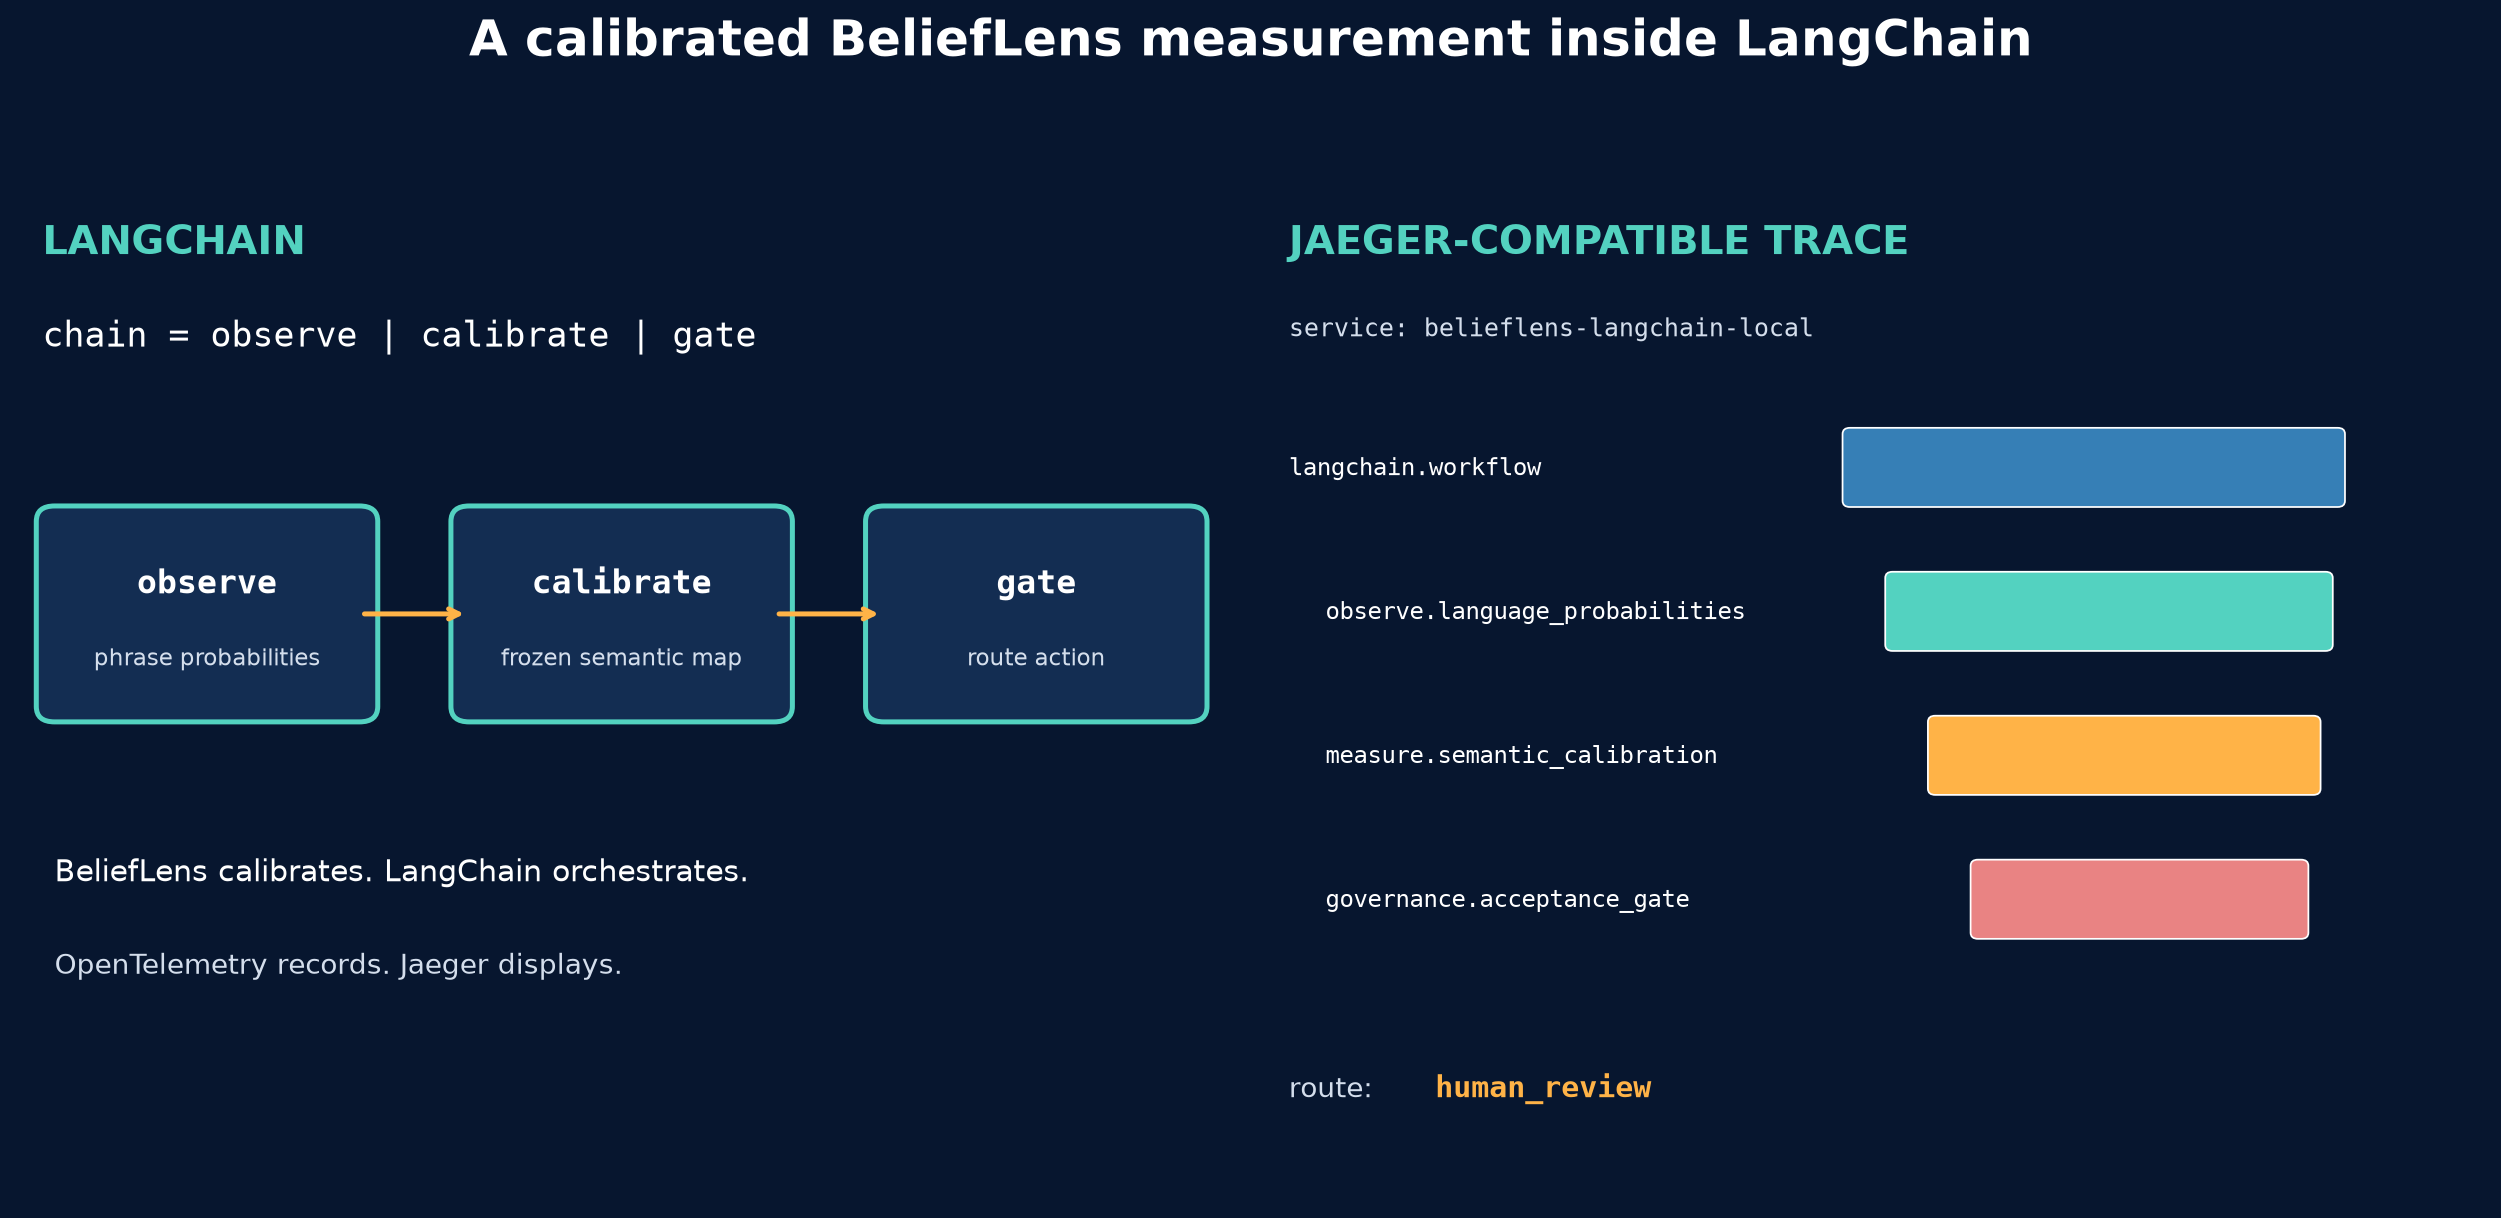
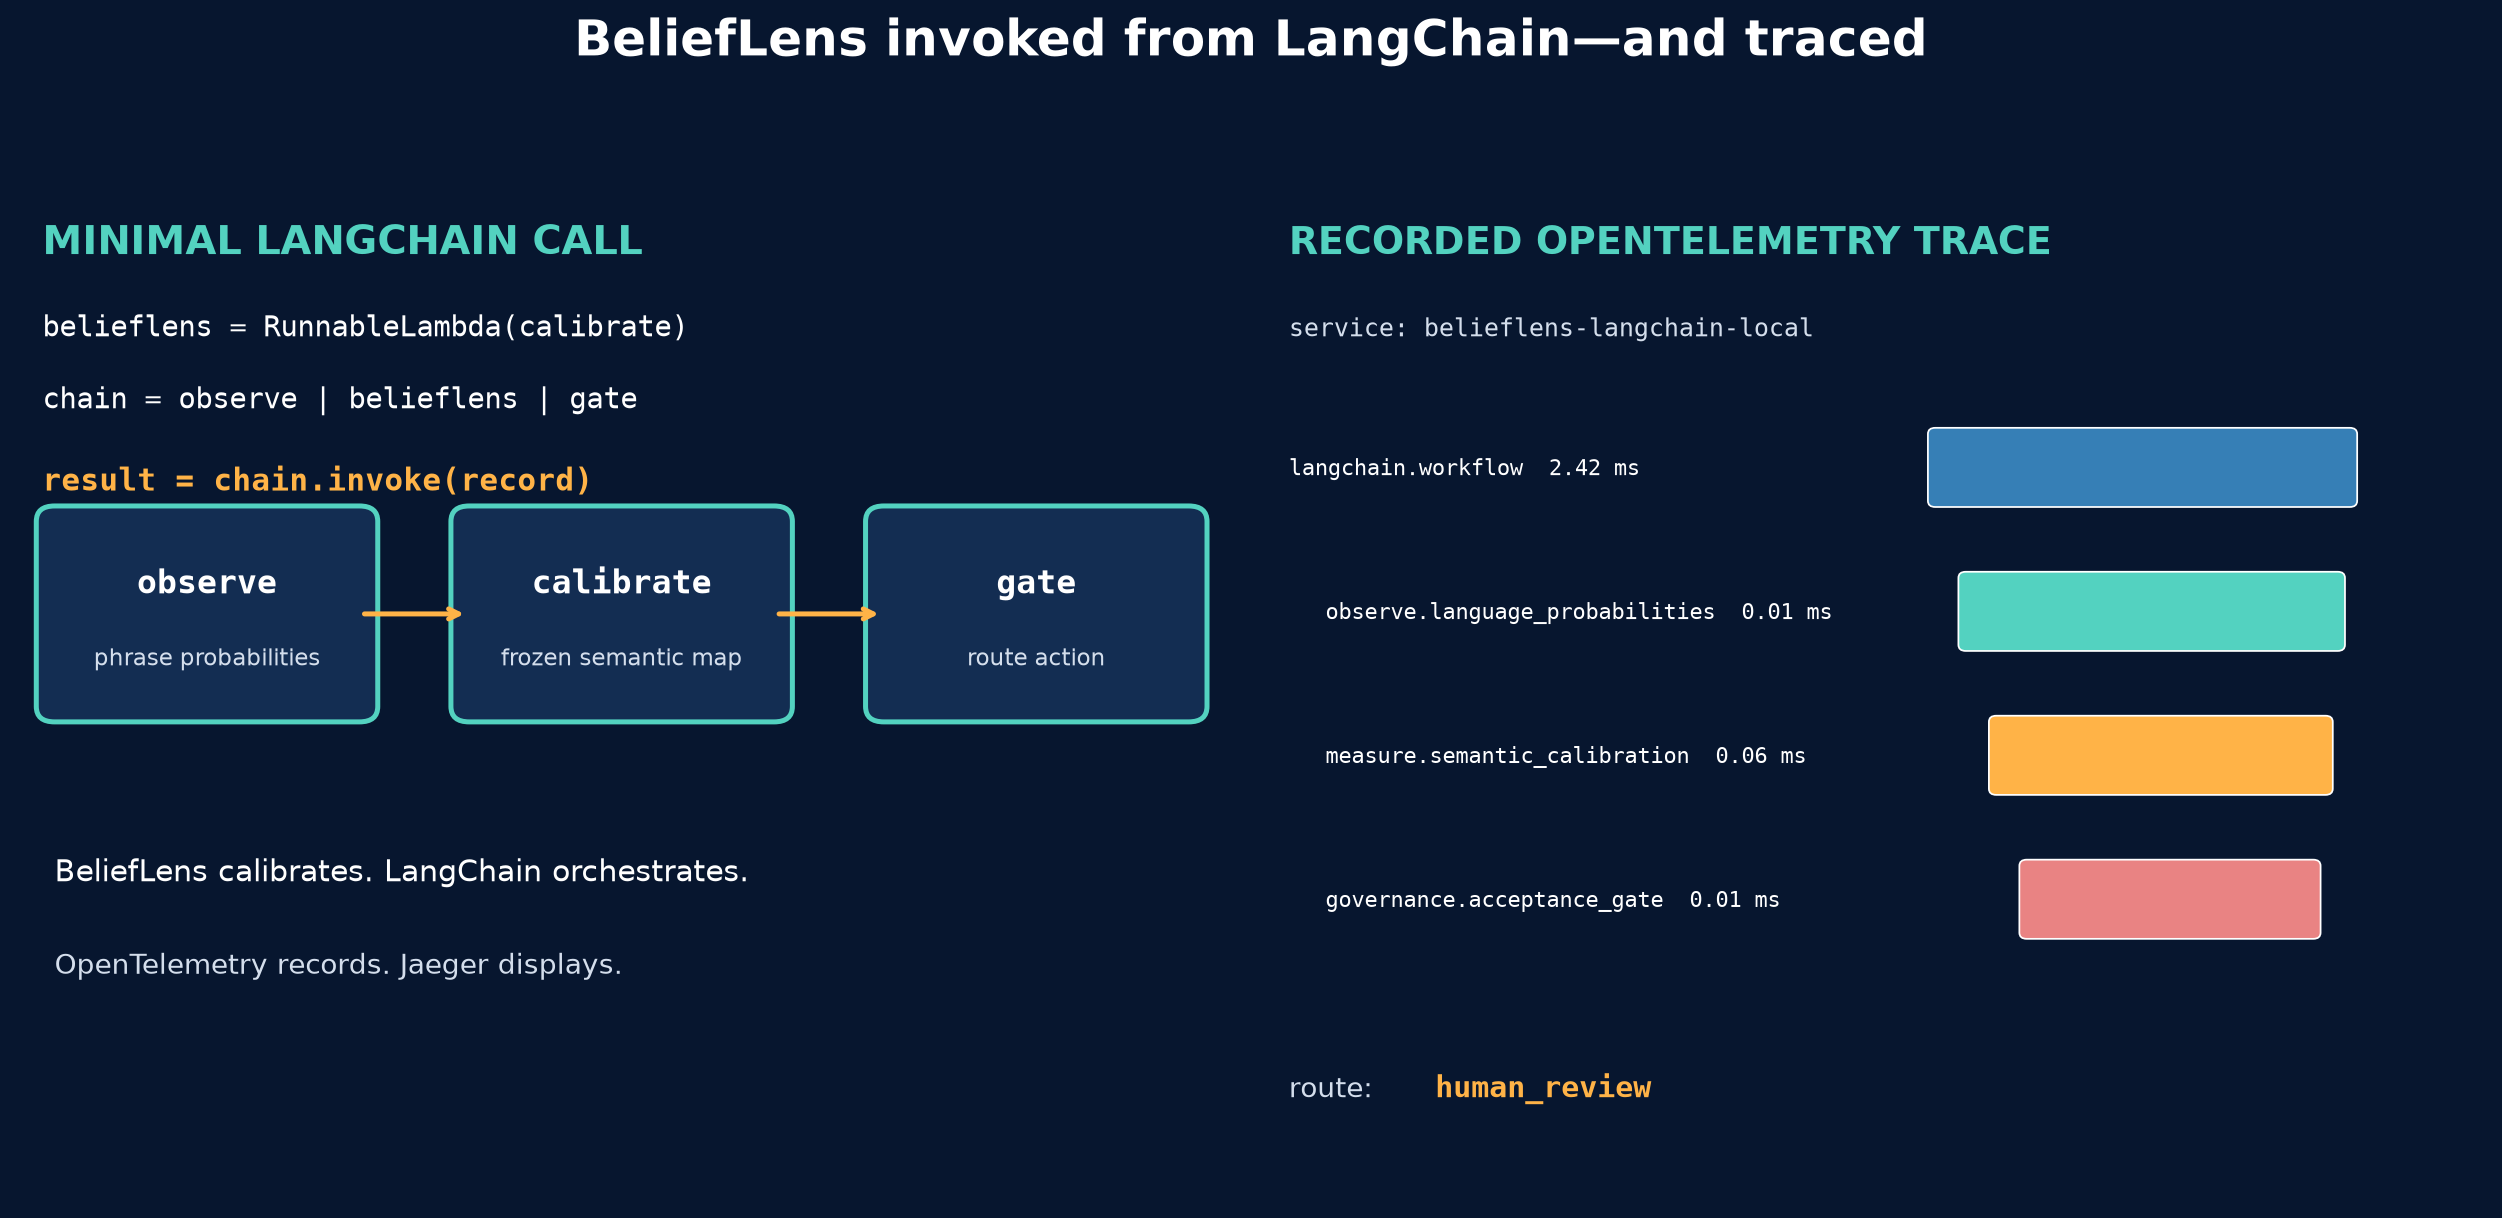
Show LangChain call and traces in integration diagram

diff --git a/examples/notebooks/finance/scripts/update_langchain_diagram_call.py b/examples/notebooks/finance/scripts/update_langchain_diagram_call.py
@@ -1,0 +1,83 @@
+"""Make the executable LangChain call explicit in the public diagram."""
+
+from __future__ import annotations
+
+import json
+from pathlib import Path
+
+
+HERE = Path(__file__).resolve().parents[1]
+NOTEBOOK = HERE / "BeliefLens_LangChain_measurement.ipynb"
+
+
+def main() -> None:
+    notebook = json.loads(NOTEBOOK.read_text())
+    workflow_cell = notebook["cells"][12]
+    workflow_source = "".join(workflow_cell["source"])
+    workflow_old = "chain = RunnableLambda(observe) | RunnableLambda(calibrate) | RunnableLambda(gate)"
+    workflow_new = "belieflens = RunnableLambda(calibrate)\nchain = RunnableLambda(observe) | belieflens | RunnableLambda(gate)"
+    if workflow_old in workflow_source:
+        workflow_source = workflow_source.replace(workflow_old, workflow_new)
+    elif workflow_new not in workflow_source:
+        raise RuntimeError("expected LangChain workflow source was not found")
+    workflow_cell["source"] = workflow_source.splitlines(keepends=True)
+    workflow_cell["outputs"] = []
+    workflow_cell["execution_count"] = None
+
+    cell = notebook["cells"][14]
+    source = "".join(cell["source"])
+    old = """a.text(.02,.92,'LANGCHAIN',color='#53d2c0',size=16,weight='bold')
+a.text(.02,.83,'chain = observe | calibrate | gate',color='white',size=14,family='monospace')
+"""
+    prior = """a.text(.02,.92,'MINIMAL LANGCHAIN CALL',color='#53d2c0',size=16,weight='bold')
+a.text(.02,.83,'belieflens = RunnableLambda(',color='white',size=12.5,family='monospace')
+a.text(.02,.77,'    apply_frozen_calibration)',color='white',size=12.5,family='monospace')
+a.text(.02,.69,'result = belieflens.invoke(record)',color='#ffb347',size=12.5,weight='bold',family='monospace')
+"""
+    new = """a.text(.02,.92,'MINIMAL LANGCHAIN CALL',color='#53d2c0',size=16,weight='bold')
+a.text(.02,.84,'belieflens = RunnableLambda(calibrate)',color='white',size=11.5,family='monospace')
+a.text(.02,.77,'chain = observe | belieflens | gate',color='white',size=11.5,family='monospace')
+a.text(.02,.69,'result = chain.invoke(record)',color='#ffb347',size=12.5,weight='bold',family='monospace')
+"""
+    if old in source:
+        source = source.replace(old, new)
+    elif prior in source:
+        source = source.replace(prior, new)
+    elif new not in source:
+        raise RuntimeError("expected LangChain diagram source was not found")
+    trace_old = """b.text(.02,.92,'JAEGER-COMPATIBLE TRACE',color='#53d2c0',size=16,weight='bold')
+b.text(.02,.84,'service: belieflens-langchain-local',color='#d4deec',size=10,family='monospace')
+order=['langchain.workflow','observe.language_probabilities','measure.semantic_calibration','governance.acceptance_gate']
+colors=['#367fb6','#53d2c0','#ffb347','#e98383']
+for i,(name,col) in enumerate(zip(order,colors)):
+ y=.68-i*.14; b.text(.02+(.03 if i else 0),y+.025,name,color='white',size=9.5,family='monospace')
+ b.add_patch(FancyBboxPatch((.48+i*.035,y),.40-i*.045,.065,boxstyle='round,pad=.006',facecolor=col,edgecolor='white',lw=.7))
+"""
+    trace_new = """b.text(.02,.92,'RECORDED OPENTELEMETRY TRACE',color='#53d2c0',size=15,weight='bold')
+b.text(.02,.84,'service: belieflens-langchain-local',color='#d4deec',size=10,family='monospace')
+order=['langchain.workflow','observe.language_probabilities','measure.semantic_calibration','governance.acceptance_gate']
+colors=['#367fb6','#53d2c0','#ffb347','#e98383']
+span_by_name={s.name:s for s in spans}
+for i,(name,col) in enumerate(zip(order,colors)):
+ y=.68-i*.14
+ duration=(span_by_name[name].end_time-span_by_name[name].start_time)/1e6
+ b.text(.02+(.03 if i else 0),y+.025,f'{name}  {duration:.2f} ms',color='white',size=8.8,family='monospace')
+ b.add_patch(FancyBboxPatch((.55+i*.025,y),.34-i*.035,.065,boxstyle='round,pad=.006',facecolor=col,edgecolor='white',lw=.7))
+"""
+    trace_prior = trace_new
+    if trace_old in source:
+        source = source.replace(trace_old, trace_new)
+    elif trace_prior not in source:
+        raise RuntimeError("expected trace diagram source was not found")
+    source = source.replace(
+        "fig.suptitle('A calibrated BeliefLens measurement inside LangChain',color='white',size=20,weight='bold')",
+        "fig.suptitle('BeliefLens invoked from LangChain—and traced',color='white',size=20,weight='bold')",
+    )
+    cell["source"] = source.splitlines(keepends=True)
+    cell["outputs"] = []
+    cell["execution_count"] = None
+    NOTEBOOK.write_text(json.dumps(notebook, indent=1, ensure_ascii=False) + "\n")
+
+
+if __name__ == "__main__":
+    main()
